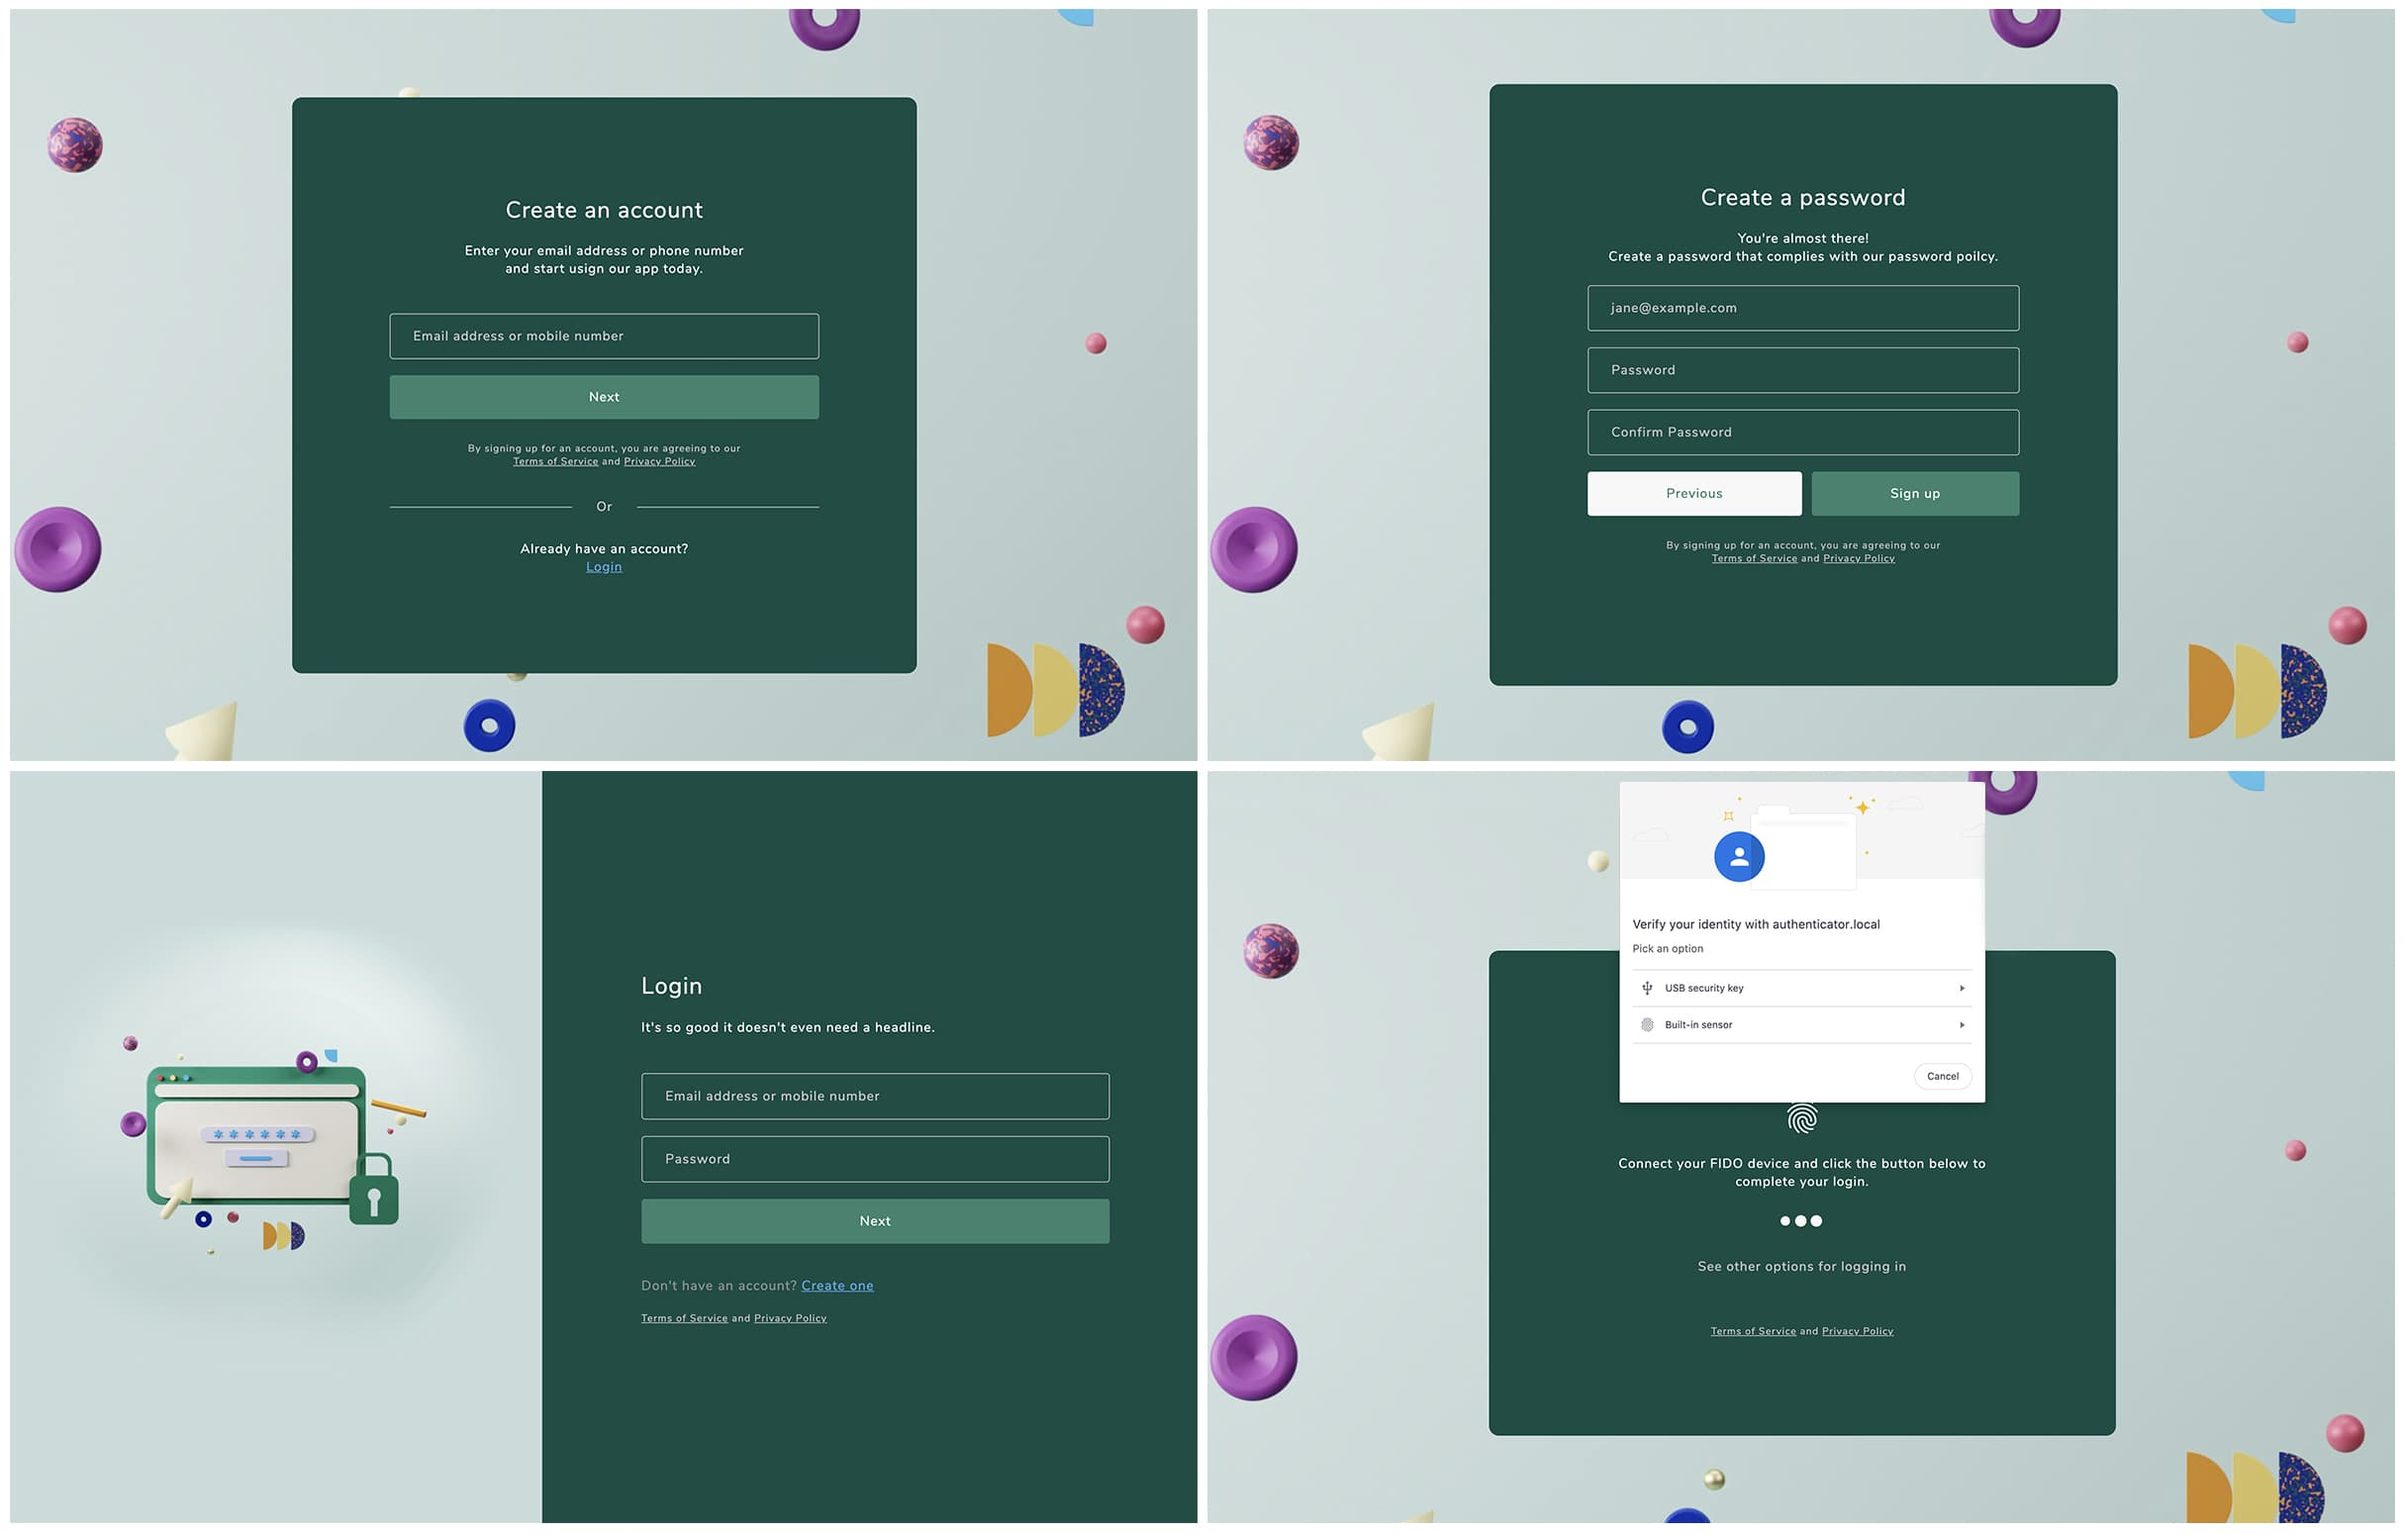
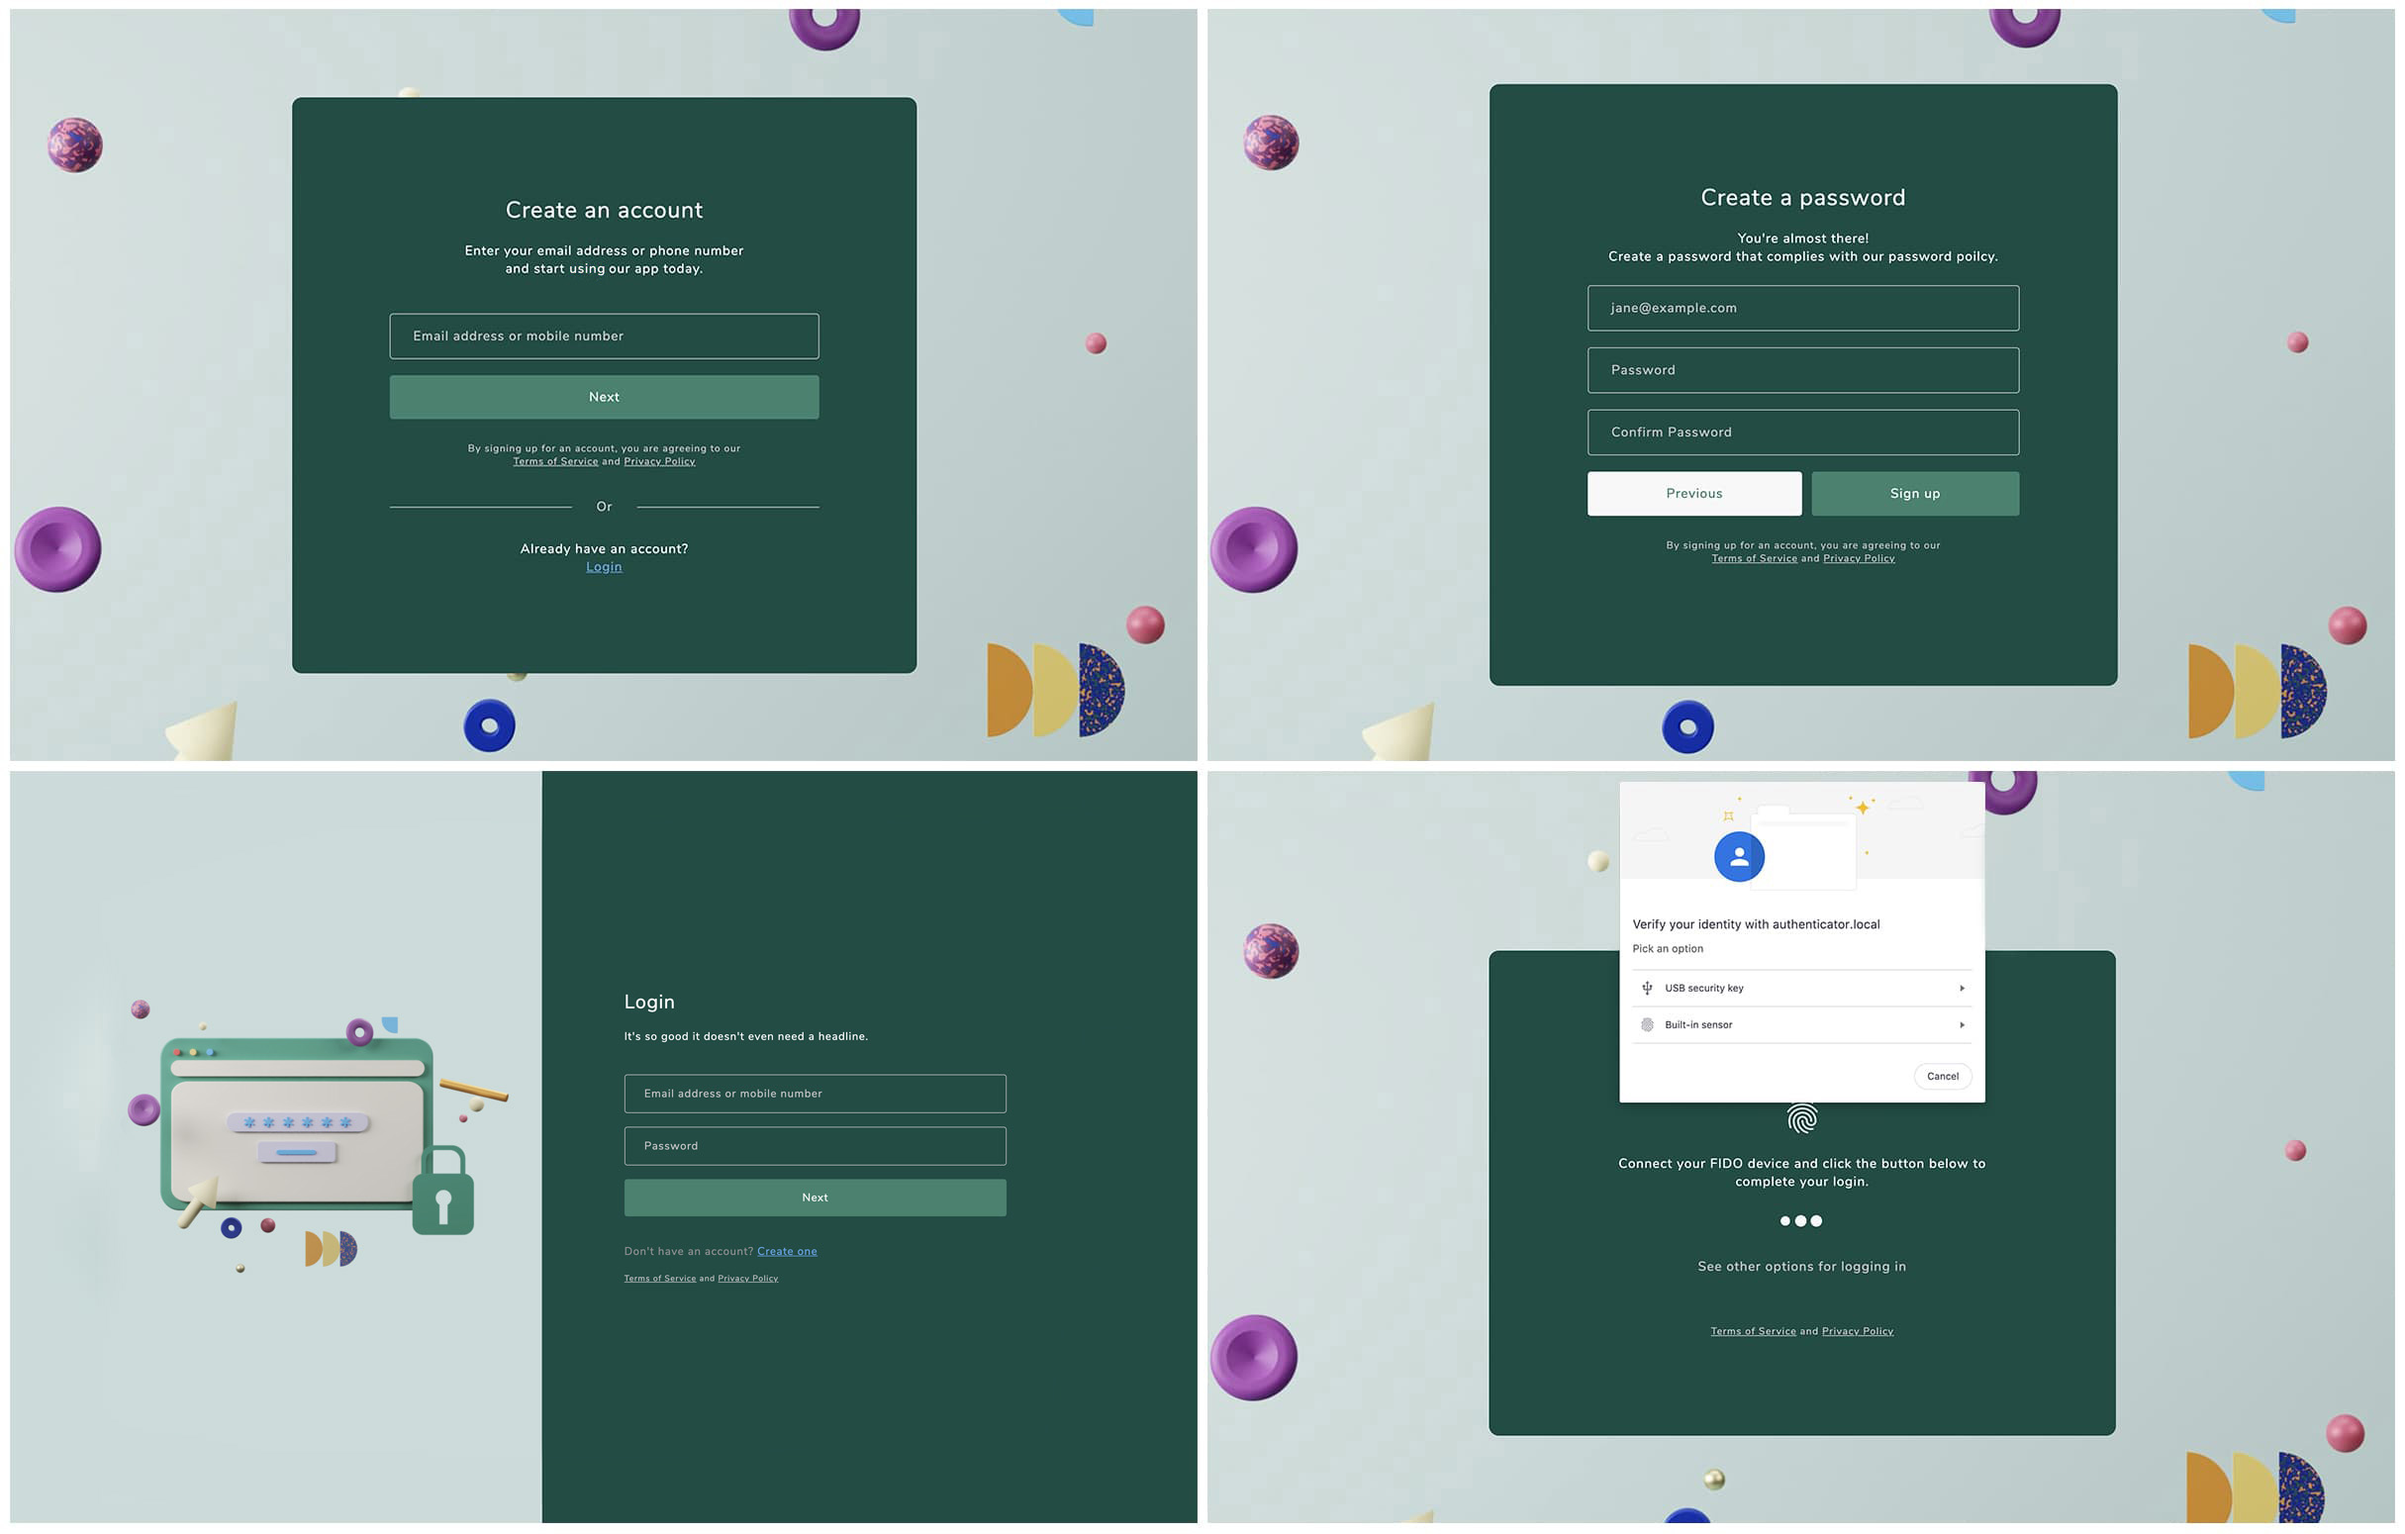
Fix assets and mobile UI

Changed region(s): [[0.2469, 0.7123, 0.463, 0.8671], [0.0309, 0.6194, 0.216, 0.8361], [0.2469, 0.6503, 0.3704, 0.6813]]

diff --git a/src/styles/_login.scss b/src/styles/_login.scss
@@ -1,12 +1,17 @@
 .login {
   background-color: $color-theme-70;
+  @media (max-width: $screen-x2) {
+    background: url('../../assets/images/bg-party.jpg') no-repeat;
+    background-size: cover;
+    background-position: 50% 50%;
+  }
 }
 
 .login-splash {
   width: 45%;
   height: 100%;
   background-color: $color-theme-0;
-  padding: $size-x5;
+  padding: $size-x12;
   display: flex;
   align-items: center;
   justify-content: center;
@@ -34,6 +39,10 @@
   @media (max-width: $screen-x2) {
     width: 100%;
     margin: $size-x3;
+    border-radius: $size-x3;
+    padding: $size-x1 * 15;
+    max-width: $screen-x2;
+    background-color: $color-theme-70;
   }
 
   @media (max-width: $screen-x1) {

diff --git a/src/styles/core/_blocks.scss b/src/styles/core/_blocks.scss
@@ -5,6 +5,11 @@
   width: 100%;
   height: 100%;
 
+  @media (max-width: $screen-x2) {
+    height: auto;
+    min-height: 100%;
+  }
+
   &__item {
     width: 100%;
     max-width: $screen-x2;
